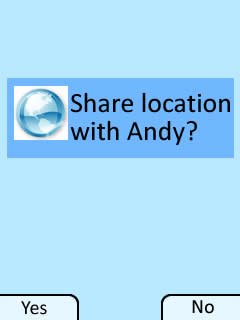
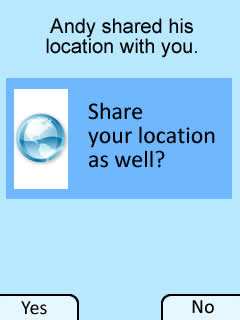
options menu's mute button calls the receiving end

Changed region(s): [[0.0, 0.25, 0.9917, 0.625], [0.175, 0.0625, 0.8167, 0.1875]]

diff --git a/MaraudersMapMobile/src/python/mmm_functional.py b/MaraudersMapMobile/src/python/mmm_functional.py
@@ -3,29 +3,30 @@ from e32 import *
 from graphics import *
 from mmm_map import *
 from key_codes import *
+from arrowLocMod import *
+from math import sin, cos, pi, atan2
 
 import positioning
 
 # Map elements
 
-#userX = -122.170715
-#userY = 37.424196
-userX = -122.173156
-userY = 37.429900
+#userGpsX = -122.170715
+#userGpsY = 37.424196
+userGpsX = -122.173156
+userGpsY = 37.429900
 
-targetX = -122.173424
-targetY = 37.430778
+targetGpsX = -122.173424
+targetGpsY = 37.430778
 
 allowShare = False  
 
-
 def updatePosition(event):
-    global userX
-    global userY
+    global userGpsX
+    global userGpsY
     positionInfo = event['position']
     courseInfo = event['course']
-    userY = positionInfo['latitude']
-    userX = positionInfo['longitude']
+    userGpsY = positionInfo['latitude']
+    userGpsX = positionInfo['longitude']
     map_redraw(None)
 
 if (not(in_emulator())):
@@ -46,6 +47,7 @@ pixels_per_gpsY = -234192
 
 #userLoc = userLocMod.UserLoc(1005, 1075, 90)
 #targetLoc = targetLocMod.TargetLoc(130, 200)
+arrowLoc = ArrowLoc(30, 30, 10)
 
 def doNothing():
     print "Do nothing"
@@ -100,11 +102,11 @@ def loadMap():
         app.menu = options
 
 def map_redraw(rect):
-    dx = (userX - map.coords['gpsXMin']) * (pixels_per_gpsX * map.zoom)
-    dy = (userY - map.coords['gpsYMax']) * (pixels_per_gpsY * map.zoom)
+    dx = (userGpsX - map.coords['gpsXMin']) * (pixels_per_gpsX * map.zoom)
+    dy = (userGpsY - map.coords['gpsYMax']) * (pixels_per_gpsY * map.zoom)
     
-    targ_dx = (targetX - userX) * (pixels_per_gpsX * map.zoom)
-    targ_dy = (targetY - userY) * (pixels_per_gpsY * map.zoom)
+    targ_dx = (targetGpsX - userGpsX) * (pixels_per_gpsX * map.zoom)
+    targ_dy = (targetGpsY - userGpsY) * (pixels_per_gpsY * map.zoom)
     
     w, h = map_canvas.size
     map.x = w/2 - dx + (panX * map.zoom)
@@ -122,6 +124,8 @@ def map_redraw(rect):
     #map_canvas.blit(fourbars_icon, mask = fourbars_icon_mask, target = (184, 2))
     map_canvas.blit(fivebars_icon, mask = fivebars_icon_mask, target = (184, 2))
     map_canvas.blit(map.overlay, mask = map.overlay_mask)   
+    arrowLoc.theta = atan2(-(targetGpsY - userGpsY), targetGpsX - userGpsX)
+    arrowLoc.draw(map_canvas)
 
 def map_quit():
     positioning.stop_position()
@@ -174,6 +178,7 @@ def pan_right():
     
 # instead of doing ao_sleep, the socket connection just has to call this fn    
 def promptToShare():
+    ao_sleep(30)
     app.screen = 'full'
     app.body = prompting_canvas
     prompting_redraw(None)
@@ -227,22 +232,22 @@ loadingCancelled = False
 prompting_image = Image.open("C:\\Data\\Images\\promptingToShare.jpg")
 prompting_canvas = Canvas(redraw_callback = prompting_redraw)
 prompting_canvas.bind(EKeyLeftSoftkey, temp)
-prompting_options = [(u"Temp", temp)]
+prompting_options = [(u"Confirm", temp)]
 prompting_lock = Ao_lock()
 
 # Talking
 canvas = Canvas(redraw_callback = redraw)
 title = u"Talking"
 options = [
-        (u"Mute", doNothing),
+        (u"Mute", promptToShare),
         (u"Loud Speaker", doNothing),
         (u"Hold", doNothing),
         (u"Share Location", loadMap)]
 app_lock = Ao_lock()
 
-user_icon = Image.open("C:\\Data\\Images\\userIcon.jpg")
+user_icon = Image.open("C:\\Data\\Images\\userIconCircle.jpg")
 user_icon_mask = Image.new(user_icon.size, mode = 'L')
-user_icon_mask.blit(Image.open("C:\\Data\\Images\\userIcon_mask.jpg"))
+user_icon_mask.blit(Image.open("C:\\Data\\Images\\userIconCircle_mask.jpg"))
 
 target_icon = Image.open("C:\\Data\\Images\\star1.jpg")
 target_icon_mask = Image.new(target_icon.size, mode = 'L')
@@ -278,6 +283,4 @@ print "Loading image talking1.jpg"
 image = Image.open("C:\\Data\\Images\\talking1.jpg")
 canvas.blit(image)
 
-ao_sleep(0.5)
-promptToShare()
 app_lock.wait()

diff --git a/MaraudersMapMobile/src/python/arrowLocMod.py b/MaraudersMapMobile/src/python/arrowLocMod.py
@@ -1,7 +1,39 @@
+from math import sin, cos, pi
+import appuifw, colorMod, operator
+from graphics import *
 
+def circleCoords(x, y, radius):
+    topLeft = (x - radius, y - radius)
+    bottomRight = (x + radius, y + radius)
+    return [topLeft, bottomRight]
+        
+def rotate( (x, y) , theta):
+    return ( x * cos(theta) - y * sin(theta), x * sin(theta) + y * cos(theta) )
+        
 class ArrowLoc:
     #Name = "ArrowLoc"
+    
     def __init__(self, x, y, dir):
         self.x = x
         self.y = y
-        self.direction = dir
+        self.theta = dir
+        self.offsets = [(-25, 6), (-25, -6), (4, -6), (4, -13), (25, 1), (4, 13), (4, 6)]
+        self.radius = 29
+                
+
+    
+    def draw(self, canvas): #theta or delta theta?
+        cx = self.x
+        cy = self.y
+        iconOffsets = self.offsets
+        finalVertices = []
+        for j in range(0, 7):
+            finalVertices.append( rotate(iconOffsets[j], self.theta ) )
+
+        for i in range(0, 7):
+            finalVertices[i] = (((cx + finalVertices[i][0]), (cy + finalVertices[i][1])))
+        
+        canvas.polygon(finalVertices, outline = colorMod.BLACK, fill = colorMod.GREEN, width = 2)
+        canvas.ellipse(circleCoords(self.x, self.y, self.radius-1), outline = colorMod.GREEN, width = 2)
+        canvas.ellipse(circleCoords(self.x, self.y, self.radius), outline = colorMod.BLACK, width = 2)
+        

diff --git a/MaraudersMapMobile/src/python/mmm_gps.py b/MaraudersMapMobile/src/python/mmm_gps.py
@@ -16,9 +16,9 @@ positioning.position(course = 1, callback = updatePosition, interval = 500000)
         courseInfo = event['course']
         print '(lat,lon) = (%.3f, %.3f)' %(positionInfo['latitude'], positionInfo['longitude'])
         print 'heading = %.3f' %(courseInfo['heading'])
-        # ----Marcia's code starts here!----
+        
         print 'horizontal_accuracy = %.3f' %(positionInfo['horizontal_accuracy'])
-        # ----Marcia's code ends here!----
+        
 
 
 #

diff --git a/MaraudersMapMobile/src/python/colorMod.py b/MaraudersMapMobile/src/python/colorMod.py
@@ -1,4 +1,4 @@
 WHITE = (255, 255, 255)
 RED = (255,0,0)  
-GREEN = (0, 255, 0)
+GREEN = (55, 225, 6)
 BLACK = (0, 0, 0)
